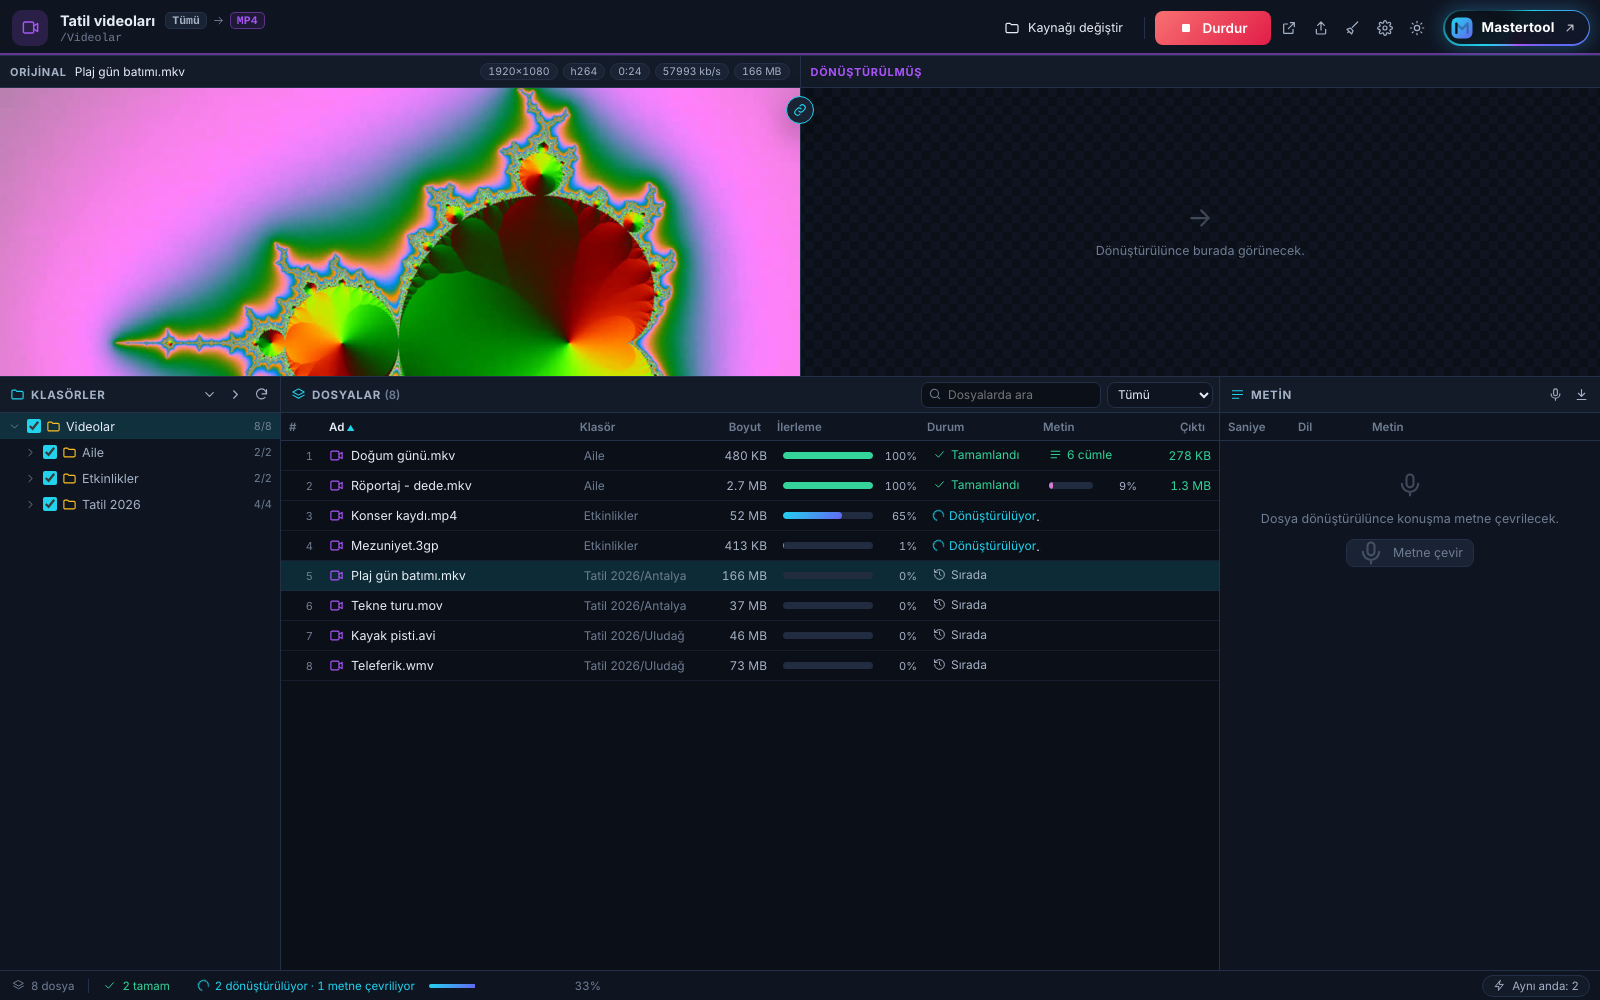
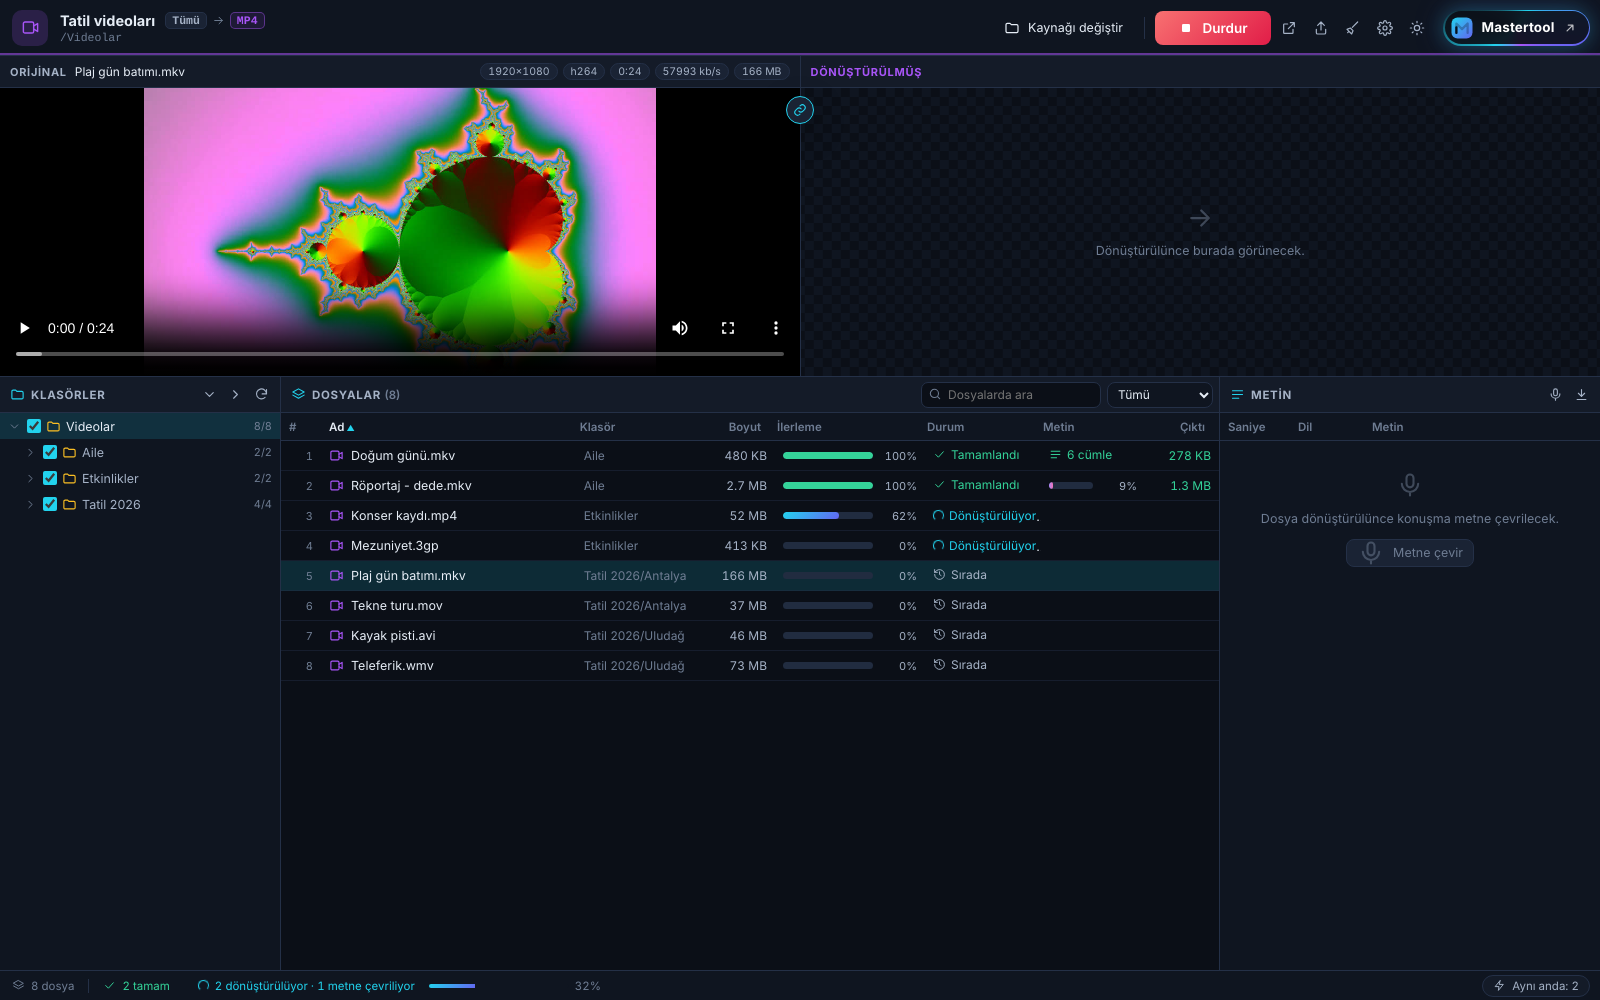
Tanıtım: İngilizce görüntü seti, OCR ekranı, teknik föy; önizleme sığdırma düzeltmesi
- docs/screenshots (tr) ve docs/screenshots/en: aynı 13 dosya adı, 1600×1000, en/manifest.json;
  yeni 13-resimden-metin-gece.png (OCR)
- docs/site-teknik.md: koddan doğrulanmış teknik bilgiler (gereksinimler, sürümler, biçim/kodek listeleri,
  konuşma ve OCR, sınırlar, depolama, gizlilik, kısayollar, sürüm geçmişi)
- Önizleme: büyük resim ve videolar alana sığdırılıyor (önceden kırpılıyordu); OCR güveni İngilizcede 96%

Claude-Session: https://claude.ai/code/session_01QMdkqYeEXKcuwEamMsZXwu

Changed region(s): [[0.0, 0.062, 0.5, 0.403]]

diff --git a/src/renderer/project.css b/src/renderer/project.css
@@ -51,7 +51,7 @@ body.resizing-row, body.resizing-row * { cursor: row-resize !important; user-sel
 .pv-info .chip-i.bad { color: var(--warn); border-color: rgba(251, 191, 36, .35); }
 .pv-body { flex: 1; min-height: 0; position: relative; display: grid; place-items: center; overflow: hidden;
   background: repeating-conic-gradient(var(--bg-2) 0% 25%, var(--bg) 0% 50%) 50% / 18px 18px; }
-.pv-body video, .pv-body img.full { max-width: 100%; max-height: 100%; width: 100%; height: 100%; object-fit: contain; display: block; background: #000; }
+.pv-body video, .pv-body img.full { position: absolute; inset: 0; width: 100%; height: 100%; object-fit: contain; display: block; background: #000; }
 .pv-body img.full { background: transparent; }
 .pv-empty { color: var(--text-3); font-size: 12.5px; text-align: center; padding: 20px; line-height: 1.6; max-width: 360px; }
 .pv-empty svg.i { width: 30px; height: 30px; display: block; margin: 0 auto 8px; opacity: .5; }

diff --git a/src/renderer/project.js b/src/renderer/project.js
@@ -722,7 +722,7 @@ function renderOcr(rel, tr) {
   tools.querySelector('button').onclick = async () => { await navigator.clipboard.writeText(tr.text || tr.lines.map((l) => l.text).join('\n')); toast(t('pj.copied'), { type: 'ok' }); };
   frag.appendChild(tools);
   tr.lines.forEach((l, i) => {
-    const r = h(`<div class="tr-row" data-i="${i}"><span class="ts">${i + 1}</span><span class="lg"><span class="conf ${l.conf >= 85 ? 'hi' : l.conf >= 60 ? 'mid' : 'lo'}">%${l.conf}</span></span><span class="tx"></span></div>`);
+    const r = h(`<div class="tr-row" data-i="${i}"><span class="ts">${i + 1}</span><span class="lg"><span class="conf ${l.conf >= 85 ? 'hi' : l.conf >= 60 ? 'mid' : 'lo'}">${LANG === 'tr' ? `%${l.conf}` : `${l.conf}%`}</span></span><span class="tx"></span></div>`);
     r.querySelector('.tx').textContent = l.text;
     r.onclick = () => {
       if (window.getSelection().toString()) return;

diff --git a/docs/site-teknik.md b/docs/site-teknik.md
@@ -1,0 +1,178 @@
+# Convert Master — teknik bilgi föyü
+
+Bu föydeki her bilgi uygulamanın kaynak kodundan ve derleme çıktısından doğrulanmıştır (sürüm 1.0.0 ve sonrası, `main` dalı). Yayınlanmamış özellikler "Sürüm geçmişi"nde ayrıca belirtilir.
+
+## Sistem gereksinimleri
+
+- **İşletim sistemi:** Windows 10 veya 11, 64 bit (x64). Derlemeler yalnız x64 için üretilir.
+- **Kurulum:** `Convert-Master-Setup-<sürüm>.exe` (~112 MB) ya da kurulumsuz `Convert-Master-Portable-<sürüm>.exe` (~112 MB).
+  - Tüm kullanıcılar: `C:\Program Files\Mastertool\Convert Master`
+  - Yalnız bu kullanıcı: `%LOCALAPPDATA%\Programs\Mastertool\Convert Master`
+  - Başlat menüsü: **Master Tool › Convert Master**; masaüstü kısayolu.
+- **Ek disk:** konuşma modelleri (75–547 MB, istenen model) ve OCR dil verileri (dil başına birkaç MB) yalnız kullanılırsa indirilir. Dönüştürülmüş dosyalar `%APPDATA%\Convert Master` altında tutulur.
+- **Hesap:** Mastertool hesabı (giriş zorunlu). İlk girişten sonra "Beni hatırla" ile çevrimdışı da açılır.
+
+## Teknoloji
+
+| Bileşen | Sürüm | Görevi |
+|---|---|---|
+| Electron | 33.4.11 (Chromium 130.0.6723.191, Node.js 20.18.3) | Masaüstü uygulama, önizleme oynatıcısı |
+| FFmpeg (ffmpeg-static) | 6.1.1 (Windows, GPL derlemesi) | Video ve ses dönüştürme, önizleme kareleri, dalga biçimi, konuşma için 16 kHz WAV |
+| sharp / libvips | 0.33.5 / 8.15.3 | Resim dönüştürme (JPG, PNG, WEBP, AVIF, GIF, TIFF; SVG okuma) |
+| whisper.cpp | 1.7.6 (`whisper-cli`, CPU) | Konuşmadan metne, çevrimdışı |
+| Whisper modelleri (ggml) | tiny · base · small · medium-q5_0 · large-v3-turbo-q5_0 | Konuşma tanıma modeli (seçilen indirilir) |
+| tesseract.js | 7.0.0 (Tesseract, WebAssembly, LSTM) | Resimden metin (OCR), çevrimdışı |
+
+Tüm işleme bu bilgisayarda yapılır. Dönüştürme ve konuşma tanıma işlemciyle (CPU) çalışır; **GPU hızlandırma yoktur**. Önizlemede videoyu Chromium oynatır.
+
+## Biçimler
+
+### Video
+
+- **Giriş (16):** mp4, mkv, avi, mov, wmv, webm, flv, m4v, mpg, mpeg, ts, mts, m2ts, 3gp, ogv, vob
+- **Çıkış (18):** mp4, mkv, webm, avi, mov, wmv, flv, m4v, mpg, 3gp, ogv · animasyonlu **gif** · yalnız ses: mp3, m4a, wav, flac, ogg, opus
+
+| Hedef | Video kodeği | Ses kodeği |
+|---|---|---|
+| MP4, MKV, MOV, M4V | H.264 (libx264) ya da isteğe bağlı H.265/HEVC (libx265) | AAC |
+| FLV | H.264 | AAC, 44,1 kHz |
+| 3GP | H.264 (baseline profil) | AAC |
+| WEBM | VP9 (libvpx-vp9) | Opus |
+| AVI | Xvid (MPEG-4 Part 2) | MP3 |
+| WMV | WMV2 | WMA (wmav2) |
+| MPG | MPEG-2 | MP2 |
+| OGV | Theora | Vorbis |
+| GIF | Palet üretimli animasyon (palettegen/paletteuse) | — |
+
+Video ayarları:
+
+- **Kalite:** Yüksek / Orta (önerilen) / Düşük — H.264 CRF 18 / 23 / 28, H.265 CRF 22 / 28 / 32, VP9 CRF 24 / 32 / 40; Xvid/MPEG-2/WMV2 `-q:v` 2 / 4 / 7; Theora 9 / 7 / 5.
+- **Çözünürlük:** kaynakla aynı, 2160p, 1440p, 1080p, 720p, 480p, 360p — yalnız küçültür (kısa kenar sınırlanır, dikey videolar dahil), boyutlar çift sayıya yuvarlanır.
+- **Kare hızı:** kaynakla aynı, 60, 50, 30, 25, 24, 15 fps.
+- **Kodlama hızı:** çok hızlı, hızlı, dengeli, yavaş.
+- **Ses bit hızı:** 64–320 kbps (64, 96, 128, 160, 192, 256, 320). **Sesi kaldır** seçeneği.
+- MP4/MOV/M4V çıktılarında hızlı başlatma (`+faststart`); meta veriler kopyalanır; ilk video ve ilk ses akışı alınır.
+- **GIF:** 15 / 12 / 10 kare/sn (kaliteye göre; en çok 30), genişlik varsayılan 480 px ya da seçilen çözünürlük.
+
+### Resim
+
+- **Giriş (12):** jpg, jpeg, png, webp, avif, gif, bmp, tif, tiff, ico, svg, tga
+- **Çıkış (8):** jpg, png, webp, avif, gif, bmp, tiff, ico
+- **Ayarlar:** kalite 1–100 (JPG mozjpeg, WEBP, AVIF, TIFF; PNG kayıpsız, 80 altı renk paleti), en fazla genişlik / yükseklik (en-boy oranı korunur, büyütme yok), meta verileri koru (EXIF, renk profili; varsayılan kapalı).
+- Animasyonlu GIF ↔ WEBP animasyonu korunur. EXIF yönü otomatik uygulanır. SVG 300 dpi ile işlenir. ICO en çok 256×256. BMP, ICO, TGA gibi sharp'ın okuyamadığı ya da yazamadığı biçimler FFmpeg ile işlenir.
+- HEIC/HEIF desteklenmez.
+
+### Ses
+
+- **Giriş (16):** mp3, wav, flac, aac, m4a, ogg, oga, opus, wma, aiff, aif, amr, ac3, mka, ape, wv
+- **Çıkış (10):** mp3 (LAME), wav (PCM 16 bit), flac, aac (ADTS), m4a (AAC), ogg (Vorbis), opus, wma, aiff (PCM 16 bit), ac3
+- **Ayarlar:** bit hızı 64–320 kbps (WAV, FLAC, AIFF kayıpsız), örnekleme hızı (kaynak, 48 / 44,1 / 32 / 22,05 / 16 kHz; Opus uyumsuz hızları 48 kHz'e çeker), kanallar (kaynak, stereo, mono).
+
+## Konuşmadan metne
+
+- **İsteğe bağlıdır** (video ve ses projelerinde "Konuşmayı metne çevir"; varsayılan kapalı). Kapalıysa çalışmaz, model indirilmez.
+- **Motor:** whisper.cpp 1.7.6, çevrimdışı; ses hiçbir sunucuya gönderilmez. Girdi FFmpeg ile 16 kHz mono WAV'a çevrilir. İş parçacığı sayısı: işlemci çekirdeği − 1 (en çok 8).
+- **Modeller** (ilk kullanımda indirilir, Ayarlar'dan önceden indirilip silinebilir):
+
+  | Model | Dosya | Yaklaşık boyut |
+  |---|---|---|
+  | Çok küçük (en hızlı) | ggml-tiny.bin | 75 MB |
+  | Temel (önerilen) | ggml-base.bin | 142 MB |
+  | Küçük | ggml-small.bin | 466 MB |
+  | Orta | ggml-medium-q5_0.bin | 514 MB |
+  | Large v3 Turbo (en doğru) | ggml-large-v3-turbo-q5_0.bin | 547 MB |
+
+- **Dil:** otomatik algılama ya da listeden seçim — Türkçe, İngilizce, Almanca, Fransızca, İspanyolca, İtalyanca, Portekizce, Felemenkçe, Rusça, Ukraynaca, Arapça, Farsça, Azerbaycanca, Yunanca, Bulgarca, Romence, Lehçe, Çekçe, Macarca, İsveççe, Norveççe, Danca, Fince, Çince, Japonca, Korece, Hintçe, Urduca, Endonezce, Malayca, Tayca, Vietnamca, İbranice (33 dil + otomatik).
+- **Her 30 saniyede dili yeniden algıla:** çok dilli kayıtlar için; kayıt 30 sn'lik pencerelere bölünür, her pencerenin dili ayrı algılanır.
+- **Metin paneli:** 1. sütun cümlenin geçtiği saniye, 2. sütun dil, 3. sütun metin. Satıra tıklayınca önizleme o saniyeye sarılır; oynatırken geçerli cümle vurgulanır.
+- **Dışa aktarım:** SRT, WebVTT, TXT, CSV (UTF-8 BOM, `;` ayraçlı), JSON.
+- Sessiz dosyalar "Ses yok" olarak işaretlenir.
+
+## Resimden metin (OCR)
+
+- **İsteğe bağlıdır** (resim projelerinde "Resimdeki metni oku (OCR)"; varsayılan kapalı). Kapalıysa çalışmaz, dil verisi indirilmez.
+- **Motor:** tesseract.js 7 (Tesseract LSTM, WebAssembly), çevrimdışı; resimler hiçbir sunucuya gönderilmez. Her biçim önce PNG'ye çevrilir (SVG, AVIF, ICO, TGA dahil).
+- **21 dil:** Türkçe, İngilizce, Almanca, Fransızca, İspanyolca, İtalyanca, Portekizce, Felemenkçe, Rusça, Ukraynaca, Arapça, Farsça, İbranice, Azerbaycanca, Yunanca, Lehçe, Basitleştirilmiş Çince, Geleneksel Çince, Japonca, Korece, Hintçe. Bir projede **en çok 6 dil** birlikte okunur (varsayılan Türkçe + İngilizce).
+- **Dil verisi:** her dil ilk kullanımda bir kez indirilir (Tesseract "best_int" verisi; örneğin Türkçe ~2,1 MB, İngilizce ~3,0 MB indirme) ve `%APPDATA%\Convert Master\ocr` altına açılır; Ayarlar › Resimden metin (OCR) bölümünden indirilip silinebilir.
+- **Metin (OCR) paneli:** satır no, okuma güveni (%) ve metin. Satıra tıklayınca satırın yeri orijinal ve dönüştürülmüş resimde vurgulanır. "Tümünü kopyala".
+- **Dışa aktarım:** TXT, CSV, JSON (JSON satır koordinatlarını da içerir).
+- Metin bulunmayan resimler "Metin yok" olarak işaretlenir.
+
+## Performans ve sınırlar
+
+- **Aynı anda çevrilecek dosya:** proje başına 1–32 (yeni projelerde varsayılan 2; Ayarlar'dan değiştirilir). Proje penceresinin durum çubuğundan anında değiştirilebilir.
+- **Aynı anda metne çevrilecek dosya** (konuşma ya da OCR): 1–4, varsayılan 1.
+- Büyük klasörler: ağaç ve liste yalnız görünen satırları çizer (binlerce dosya). Gizli dosyalar (`.` ya da `$` ile başlayan) taranmaz.
+- **Durdur:** süren işlemler hemen sonlandırılır, yarım çıktı silinir; durdurulan dosya bir sonraki Başlat'ta baştan dönüştürülür (kaldığı yerden devam yok).
+- Kaynak dosya değişirse (boyut ya da tarih) sonucu geçersiz sayılır ve yeniden dönüştürülür.
+- Aynı klasörde yalnız uzantısı farklı iki kaynak (ör. `a.mkv`, `a.avi`) çıktıda çakışmaz: `a_mkv.mp4`, `a_avi.mp4`.
+- Önizleme: Chromium'un doğrudan oynatamadığı biçimler için kare ve tek tıkla 480p H.264 önizleme kopyası; ses için dalga biçimi ve gerekirse MP3 kopyası; TIFF/TGA gibi resimler için PNG önizleme (en çok 2400 px).
+- GPU hızlandırma yoktur; dönüştürme ve konuşma tanıma işlemciyle yapılır.
+
+## Depolama
+
+`%APPDATA%\Convert Master\`:
+
+| Yol | İçerik |
+|---|---|
+| `converted\<proje>\` | Dönüştürülmüş dosyalar (kaynak klasör yapısıyla) |
+| `work\<proje>\state.json` | Dosya durumları |
+| `work\<proje>\speech\`, `work\<proje>\ocr\` | Konuşma metinleri, OCR sonuçları |
+| `cache\preview\` | Önizleme kareleri, dalga biçimleri, önizleme kopyaları (14 gün kullanılmayan silinir) |
+| `models\` | Konuşma modelleri |
+| `ocr\` | OCR dil verileri |
+| `engines\whisper\` | Kurulumla gelmediyse indirilen whisper.cpp |
+| `store.json`, `account.json` | Projeler ve ayarlar; oturum (Windows DPAPI ile şifreli) |
+
+Kaynak dosyalarınıza hiç dokunulmaz. Temizleme: proje kartında ya da proje penceresinde **Çevrilmiş dosyaları sil**, Ayarlar › Depolama'da tüm projeler için toplu silme (isteğe bağlı metinlerle birlikte) ve önizleme önbelleğini temizleme; boyutlar orada görünür. Dönüştürülmüş dosyalar istenirse başka bir klasöre kopyalanabilir (klasör yapısıyla).
+
+## Güvenlik ve gizlilik
+
+- Dönüştürme, konuşmadan metne ve OCR **tamamen bu bilgisayarda** yapılır; dosyalar, sesler ve resimler hiçbir sunucuya gönderilmez.
+- Ağ yalnız şu durumlarda kullanılır:
+  - Mastertool hesabına giriş, uçtan uca şifreli senkron ve yeni sürüm denetimi (convertmaster.app; ulaşılamazsa mastertool.download),
+  - konuşma modeli indirme (Hugging Face › ggerganov/whisper.cpp) ve kurulumda yoksa whisper.cpp indirme (GitHub),
+  - OCR dil verisi indirme (jsDelivr › @tesseract.js-data),
+  - hesap sayfaları ve Mastertool düğmesi (varsayılan tarayıcıda açılır).
+  İndirmeler Windows proxy ayarlarına uyar.
+- **Senkron:** yalnız proje tanımları (ad, tür, uzantılar, ayarlar), proje klasörleri ve genel ayarlar gönderilir; dosyalar, kaynak yolları, seçimler, çıktılar ve metinler gönderilmez. Veriler gönderilmeden önce şifrelenir: anahtar şifrenizden cihazda türetilir (PBKDF2-SHA256, 310 000 tur + HKDF-SHA256), içerik AES-256-GCM ile şifrelenir; sunucu içeriği okuyamaz. Senkron kapatılabilir ve sunucudaki kopya silinebilir.
+- Oturum bilgisi Windows DPAPI (Electron safeStorage) ile şifrelenir. Pencereler bağlam yalıtımıyla (contextIsolation) çalışır; yerel dosyalar önizlemeye yalnız ana sürecin kaydettiği adreslerle (cvm://) açılır.
+
+## Klavye kısayolları
+
+| Kısayol | Pencere | İşlev |
+|---|---|---|
+| Ctrl+N | Ana | Yeni proje |
+| Ctrl+F | Ana | Projelerde ara |
+| Enter | Ana | Seçili projeyi aç |
+| F2 | Ana | Proje ayarları |
+| Delete | Ana | Projeyi sil |
+| Backspace | Ana | Üst klasöre dön |
+| Esc | Ana | Aramayı temizle |
+| Ctrl+Enter | Proje | Başlat / Durdur |
+| F5 | Proje | Kaynağı yeniden tara |
+| ↑ / ↓ | Proje | Listede önceki / sonraki dosya |
+| Enter | Proje | Dosyayı aç (dönüştürüldüyse çıktıyı) |
+| Enter / Esc | Pencereler | Onayla / kapat |
+
+## Diller ve görünüm
+
+- **Arayüz dilleri (8):** Türkçe, English, Français, Deutsch, Español, العربية (sağdan sola), 中文, Русский. İlk açılışta Windows dili listedeyse o, değilse İngilizce.
+- Arapçada pencere sağdan sola; dosya yolları, uzantılar ve metin tabloları soldan sağa kalır.
+- **Tema:** Gece / Gündüz / Sistem tercihi (varsayılan Sistem).
+- **Başlangıç:** Windows oturumu açılınca başlat, küçültünce sistem tepsisi, kapatınca tepsiye gizle (isteğe bağlı).
+
+## Sürüm geçmişi
+
+### Yayınlanmamış (main)
+
+- **Resimden metin (OCR)**, isteğe bağlı: tesseract.js 7, 21 dil, projede en çok 6 dil; satır · güven · metin paneli, satırın resimde vurgulanması, Tümünü kopyala, TXT/CSV/JSON.
+- Konuşmadan metne ve OCR seçenekleri ayrı ayrı; ikisi de varsayılan kapalı.
+- Önizleme: büyük resim ve videolar alana sığdırılıyor (önceden kırpılabiliyordu).
+
+### 1.0.0 — 15 Ekim 2026
+
+- İlk sürüm: video (16 giriş / 18 çıkış), resim (12 / 8), ses (16 / 10) dönüştürme; dosya ve klasör projeleri, klasör ağacı ve satır başına ilerleme, aynı anda 1–32 dosya.
+- Yan yana önizleme (orijinal | dönüştürülmüş), birlikte oynatma, önizleme kopyası.
+- Çevrimdışı konuşmadan metne (whisper.cpp), 30 sn'de dil algılama, SRT/VTT/TXT/CSV/JSON.
+- Mastertool hesabı, uçtan uca şifreli senkron, 8 dil, gece/gündüz/sistem teması, tepsi ve oturumla başlatma, güncelleme denetimi.
